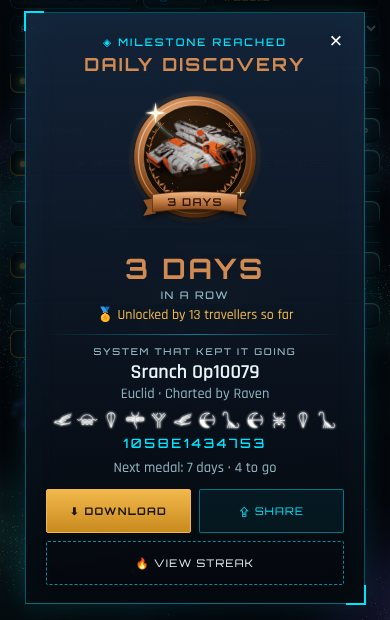
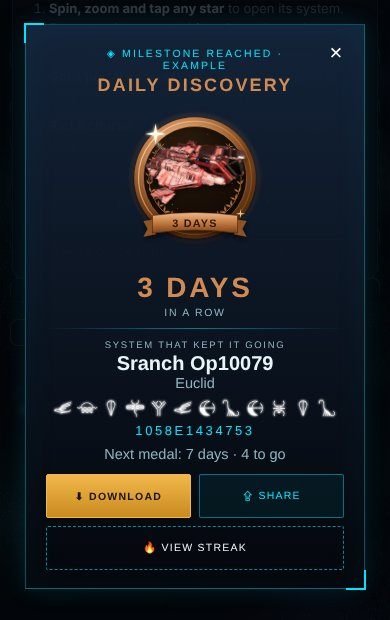
Medals: bronze Shuttle + silver Fighter now cut from Tony's own in-game shots (sharper download picture), placed like before (Fighter's trail ends in its engines); README: Deep Space Anomaly marker

diff --git a/nms-medals.js b/nms-medals.js
@@ -54,8 +54,8 @@
   };
   // Tony's final settings (positioner v6). Ships deliberately poke out past the rim.
   var SHIP = {
-    bronze:{ img:'ship-shuttle.webp', iw:260, ih:145, x:283, y:214, w:328, rot:-10, ex:405, ey:222 },
-    silver:{ img:'ship-fighter.webp', iw:242, ih:171, x:262, y:220, w:332, rot:-17, ex:451, ey:240 },
+    bronze:{ img:'ship-shuttle.webp', iw:600, ih:342, x:285, y:220, w:340, rot:-10, ex:405, ey:222 },  /* 2026-10-31 Tony's own Shuttle + Fighter shots */
+    silver:{ img:'ship-fighter.webp', iw:600, ih:295, x:305, y:228, w:340, rot:-17, ex:270, ey:253 },
     gold:  { img:'ship-exotic-topdown.webp', iw:500, ih:332, x:309, y:197, w:342, rot:-4, ex:420, ey:259 }
   };
   var C = window.NMSMedals_CONFIG || {};

diff --git a/README.md b/README.md
@@ -417,7 +417,8 @@ that shows each option's real icon image next to its name rather than
 plain text. Seven of the ten now use real in-game icon images (isolated
 from reference photos and background-removed); the remaining three
 (Flora Growth, Tech Anomaly, Hazard / Danger) still use a hand-drawn
-placeholder glyph until a real image is available. Each marker also
+placeholder glyph until a real image is available. **Deep Space Anomaly**
+(added 2026-10-31, the purple in-game marker, real icon) joins the list too. Each marker also
 carries a free-text name, category,
 signal type, and route note -- type what your own report actually said,
 same as everything else in this section.
